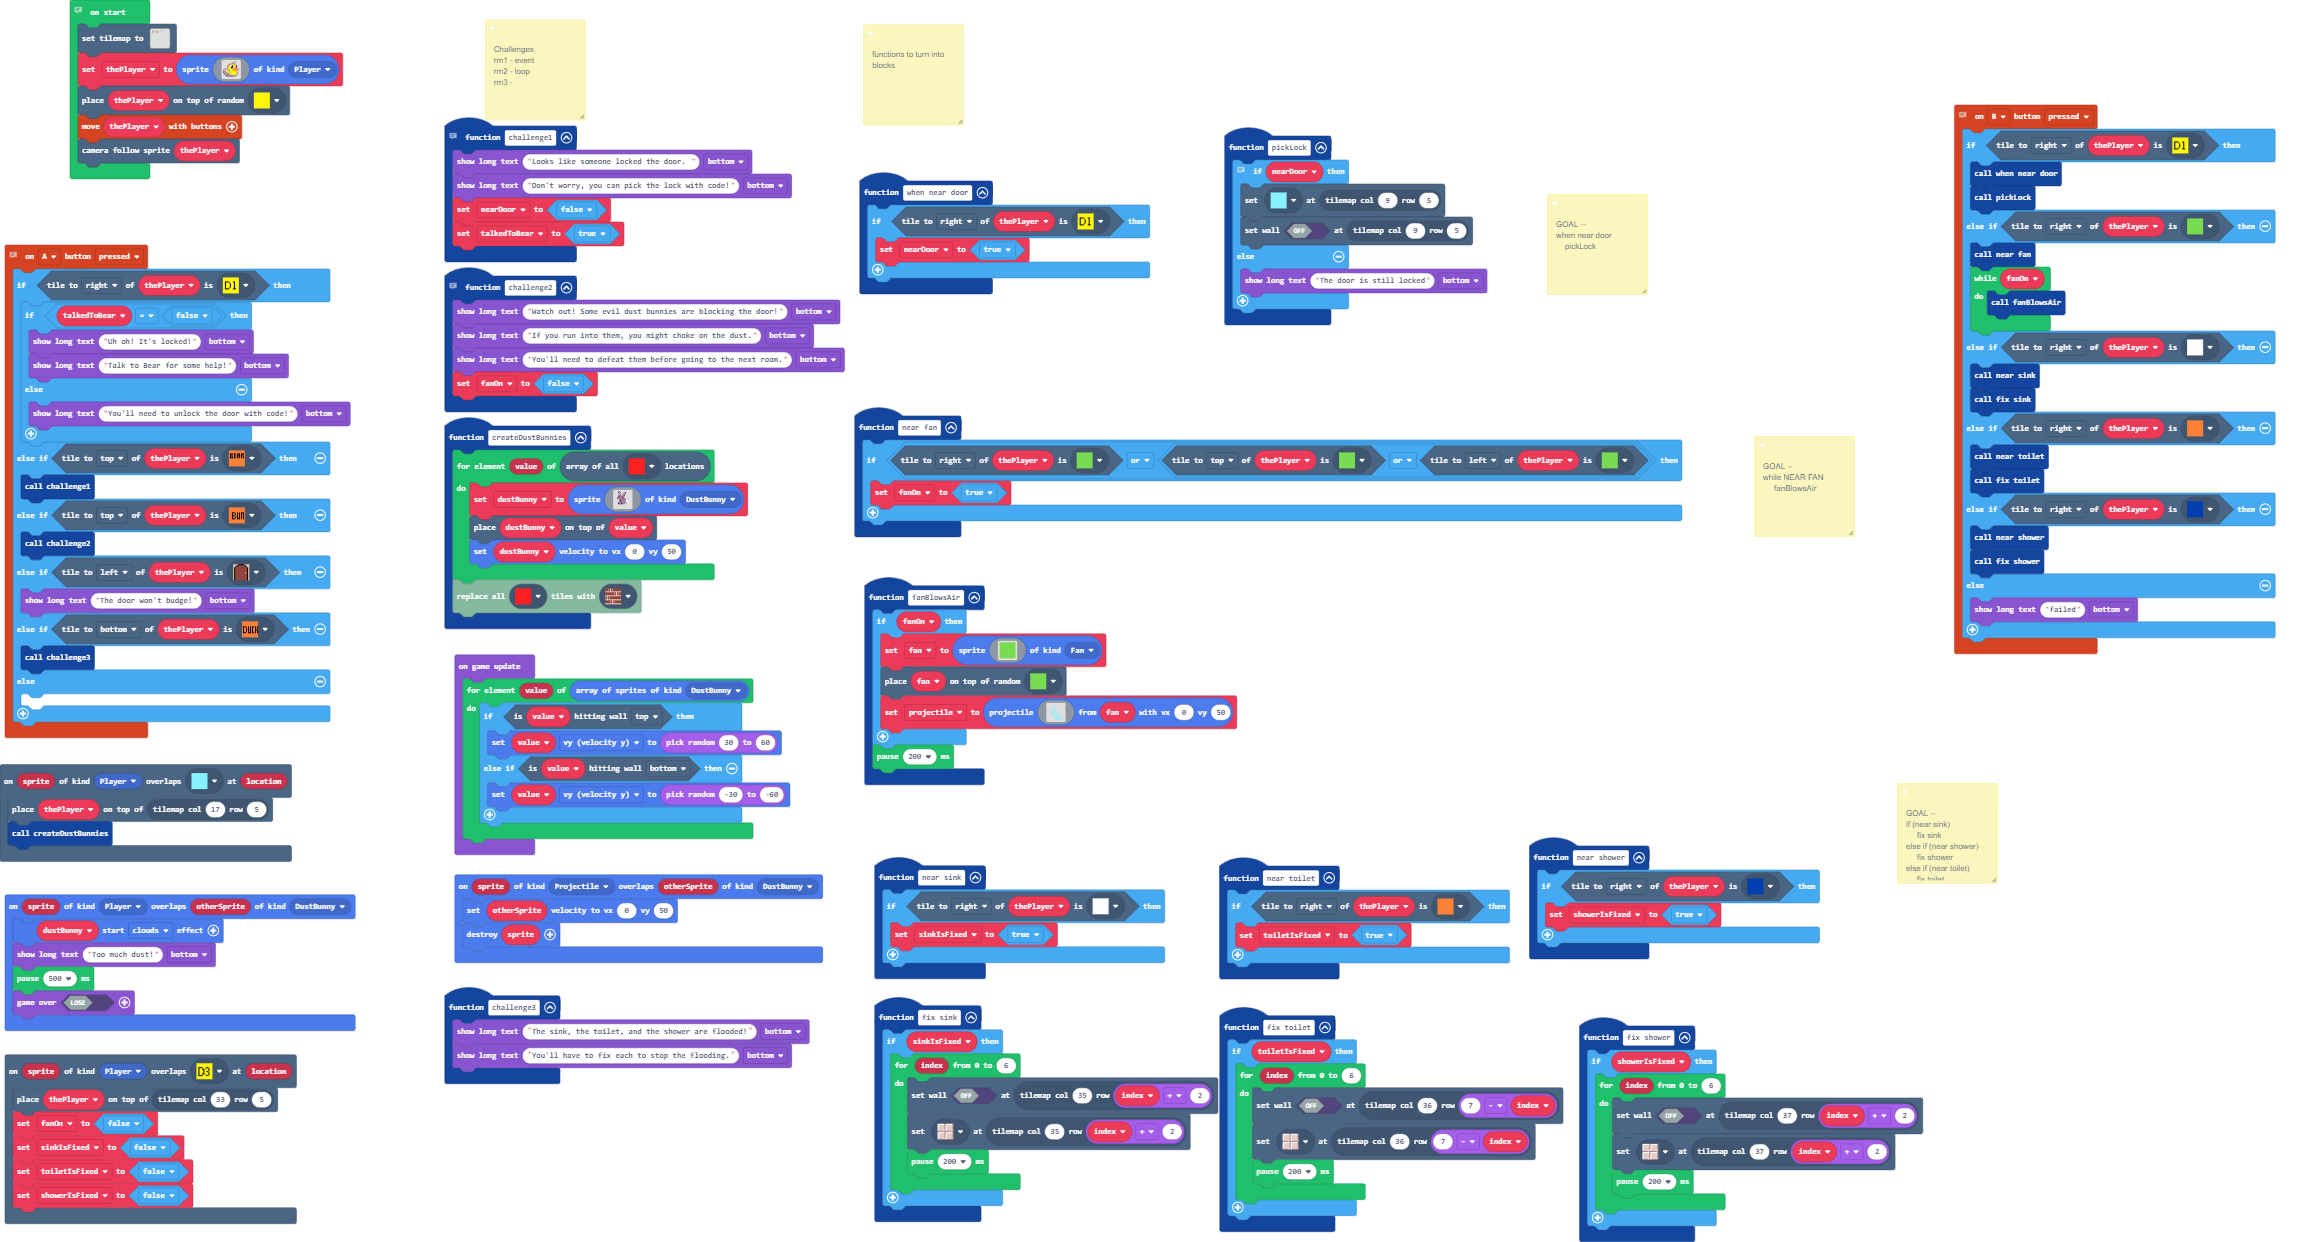
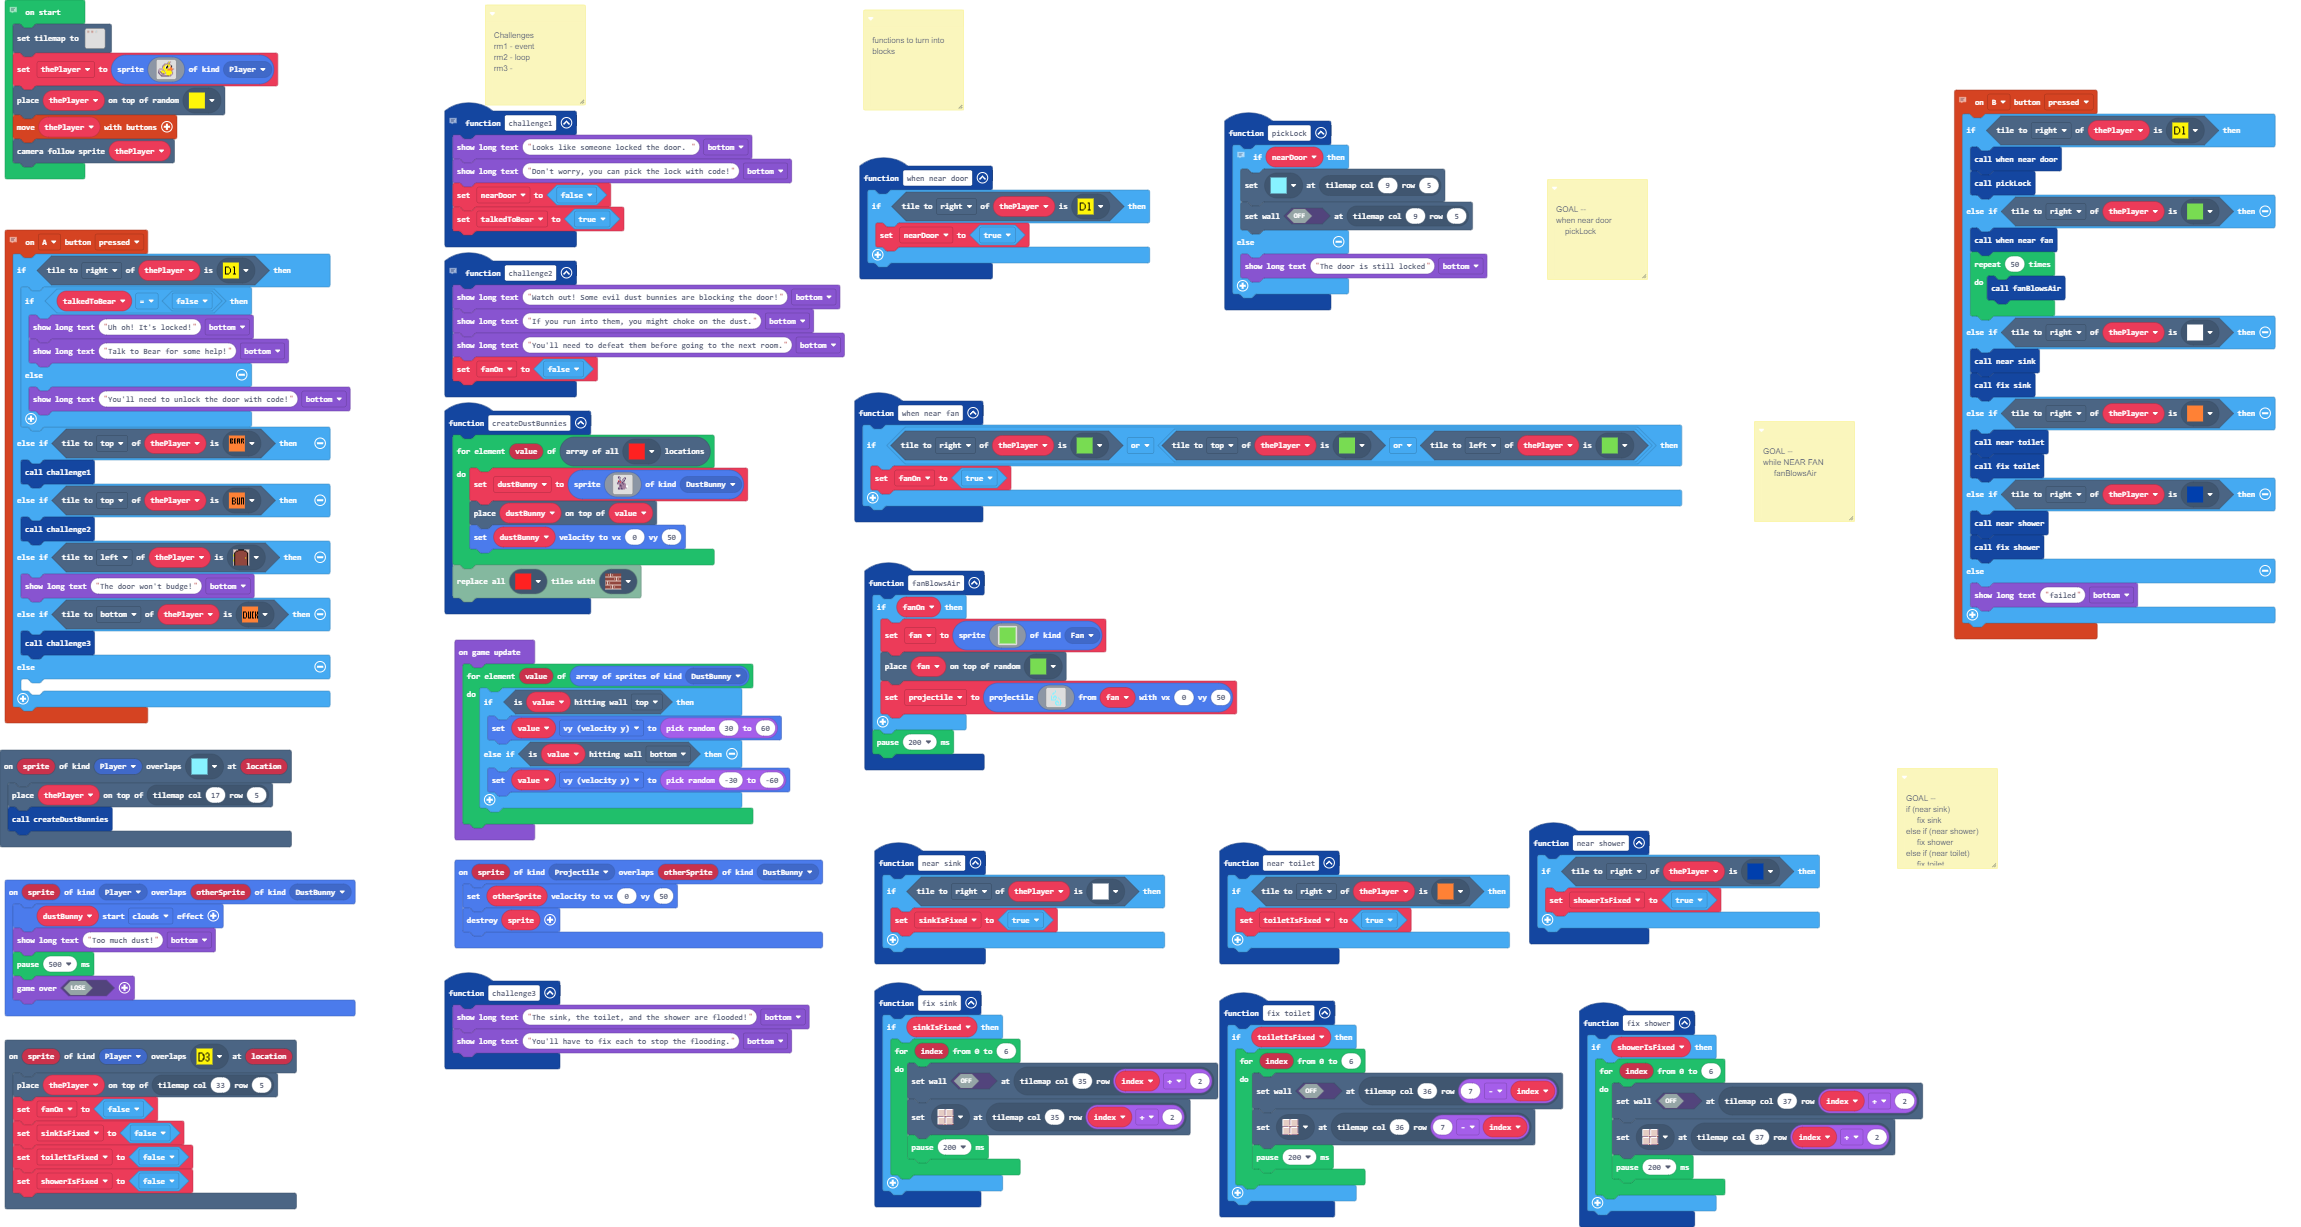
tweaked when fan on

diff --git a/main.ts b/main.ts
@@ -43,8 +43,8 @@ controller.B.onEvent(ControllerButtonEvent.Pressed, function () {
         when_near_door()
         pickLock()
     } else if (thePlayer.tileKindAt(TileDirection.Right, myTiles.tile12)) {
-        near_fan()
-        while (fanOn) {
+        when_near_fan()
+        for (let index = 0; index < 50; index++) {
             fanBlowsAir()
         }
     } else if (thePlayer.tileKindAt(TileDirection.Right, myTiles.tile15)) {
@@ -156,6 +156,11 @@ scene.onOverlapTile(SpriteKind.Player, myTiles.tile11, function (sprite, locatio
     tiles.placeOnTile(thePlayer, tiles.getTileLocation(17, 5))
     createDustBunnies()
 })
+function when_near_fan () {
+    if (thePlayer.tileKindAt(TileDirection.Right, myTiles.tile12) || (thePlayer.tileKindAt(TileDirection.Top, myTiles.tile12) || thePlayer.tileKindAt(TileDirection.Left, myTiles.tile12))) {
+        fanOn = true
+    }
+}
 function challenge3 () {
     game.showLongText("The sink, the toilet, and the shower are flooded!", DialogLayout.Bottom)
     game.showLongText("You'll have to fix each to stop the flooding.", DialogLayout.Bottom)
@@ -243,11 +248,6 @@ scene.onOverlapTile(SpriteKind.Player, myTiles.tile13, function (sprite, locatio
     toiletIsFixed = false
     showerIsFixed = false
 })
-function near_fan () {
-    if (thePlayer.tileKindAt(TileDirection.Right, myTiles.tile12) || (thePlayer.tileKindAt(TileDirection.Top, myTiles.tile12) || thePlayer.tileKindAt(TileDirection.Left, myTiles.tile12))) {
-        fanOn = true
-    }
-}
 // make more instructional
 function challenge2 () {
     game.showLongText("Watch out! Some evil dust bunnies are blocking the door!", DialogLayout.Bottom)
@@ -258,12 +258,12 @@ function challenge2 () {
 // add intro, instructions
 let projectile: Sprite = null
 let fan: Sprite = null
+let fanOn = false
 let toiletIsFixed = false
 let sinkIsFixed = false
 let talkedToBear = false
 let nearDoor = false
 let dustBunny: Sprite = null
-let fanOn = false
 let showerIsFixed = false
 let thePlayer: Sprite = null
[1 lines of base64/hex data omitted]
@@ -272,7 +272,7 @@ tiles.setTilemap(tiles.createTilemap(hex`400040000202020202020202020200000000000
     2........2......2........2......2..222...2......................
     2........2......2........2......2..222...2......................
     2........2......2........2......2..222...2......................
-    2........2......2...............2..222..........................
+    2........2......2...............2..222...2......................
     2........2......2........2......2..222...2......................
     2........2......2........2......2..222...2......................
     2........2......2........2......22.222...2......................

diff --git a/tilemap.g.ts b/tilemap.g.ts
@@ -44,6 +44,18 @@ namespace myTiles {
     export const tile20 = image.ofBuffer(hex``);
     //% fixedInstance jres blockIdentity=images._tile
     export const tile21 = image.ofBuffer(hex``);
+    //% fixedInstance jres blockIdentity=images._tile
+    export const tile22 = image.ofBuffer(hex``);
+    //% fixedInstance jres blockIdentity=images._tile
+    export const tile23 = image.ofBuffer(hex``);
+    //% fixedInstance jres blockIdentity=images._tile
+    export const tile24 = image.ofBuffer(hex``);
+    //% fixedInstance jres blockIdentity=images._tile
+    export const tile25 = image.ofBuffer(hex``);
+    //% fixedInstance jres blockIdentity=images._tile
+    export const tile26 = image.ofBuffer(hex``);
+    //% fixedInstance jres blockIdentity=images._tile
+    export const tile27 = image.ofBuffer(hex``);
 
 }
 // Auto-generated code. Do not edit.
